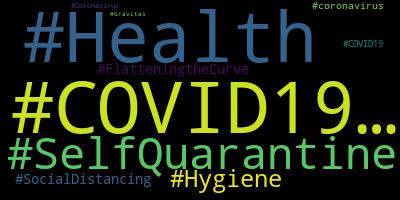
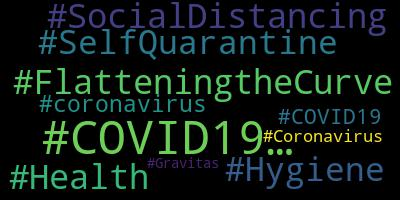
Created folders for CSS

diff --git a/templates/hello.html b/templates/hello.html
@@ -4,19 +4,60 @@
 <head>
 	<meta charset="UTF-8">
 	<title>Real time data analysis</title>
+	 <link rel="stylesheet" type="text/css" href="static/css/dashboard.css">
+
 </head>
 
 <body>
+	<div class="container">
+		  <div class="toppane">We can write counts here</div>
 
-	<img src="{{ img_path }}">
+		  <div class="leftpane">
+		    <h1>Raw Tweets</h1>
+		    {% for tweet in tweets %}
+			    <p> {{ tweet }} </p>
+			{% endfor %}
 
-{% for tweet in tweets %}
-    <p> {{ tweet }} </p>
-{% endfor %}
+		  </div>
+		  <div class="rightpane">
 
-{% for word in words %}
-    <p> {{ word }} </p>
-{% endfor %}
+		  	<div id="div1">
+		  		<img src="{{ img_path }}" alt="word cloud">
+			</div>
+			<div id="div2">
+			</div>
+			<div id="div3">
+			</div>
+			<div id="div4">
+			</div>
+
+
+		     
+		   </div>
+	</div>
+
+	<!--<div>
+		{% for tweet in tweets %}
+		    <p> {{ tweet }} </p>
+		{% endfor %}
+	</div>
+
+	<div>
+		<img src="{{ img_path }}">
+	</div>
+
+	<div>
+			
+	{% for word in words %}
+	    <p> {{ word }} </p>
+	{% endfor %}
+
+	</div>-->
+
+	
+
+
+
 
 </body>
 </html>

diff --git a/static/css/dashboard.css b/static/css/dashboard.css
@@ -1,0 +1,68 @@
+body, html {
+  width: 100%;
+  height: 100%;
+  margin: 0;
+}
+
+.container {
+  width: 100%;
+  height: 100%;
+}
+
+.leftpane {
+    width: 25%;
+    height: 100%;
+    float: left;
+    background-color: #D4EFDF;
+    border-collapse: collapse;
+}
+
+.middlepane {
+    width: 25%;
+    height: 100%;
+    float: left;
+    background-color: #E8DAEF;
+    border-collapse: collapse;
+}
+
+.rightpane {
+  width: 75%;
+  height: 100%;
+  position: relative;
+  float: right;
+  background-color: #E8DAEF;
+  border-collapse: collapse;
+  margin-left: 0;
+}
+
+.toppane {
+  width: 100%;
+  height: 100px;
+  border-collapse: collapse;
+  background-color: #FAE5D3 ;
+}
+
+#div1 { 
+  width: 50%;
+   height: 50%;
+    float: left;
+  background: #DDD; 
+}
+#div2 {
+  width: 50%;
+   height: 50%;
+    float: left;
+ background: #AAA;
+  }
+#div3 { 
+  width: 50%;
+   height: 50%;
+    float: left;
+  background: #777;
+   }
+#div4 {
+  width: 50%;
+   height: 50%; 
+   float: left;
+ background: #444; 
+}

diff --git a/app.py b/app.py
@@ -12,7 +12,15 @@ word_counts = {'words': [], 'counts': []}
 def home_page():
     global tweets
     global word_counts
-    
+    tweets = {'users': ['RchavezRuben', 'whalesharkandme'], 'text': ['RT @KenDilanianNBC: Imagine if, two months ago, a competent federal government had led a World War II-level effort to ramp up production of…', 'I have been listening to @levarburton read on Friday nights. It’s such a wonderful distraction from all the COVID-1… https://t.co/QqGOeg5xP5']}
+    word_counts = {'words': ['#COVID19…', '#FlatteningtheCurve', '#SocialDistancing', '#Health', '#SelfQuarantine', '#Hygiene', '#coronavirus', '#COVID19', '#Coronavirus', '#Gravitas'], 'counts': [16, 15, 15, 15, 15, 15, 6, 5, 3, 2]}
+	
+	
+    print("Tweets variable", file=sys.stderr)
+    print(tweets , file=sys.stderr)
+    print("word count variable", file=sys.stderr)
+    print(word_counts , file=sys.stderr)
+	
     print(word_counts['words'], file=sys.stderr)
     img_path = os.path.join(app.config['IMAGES_PATH'], 'wordcloud.jpg')
     
